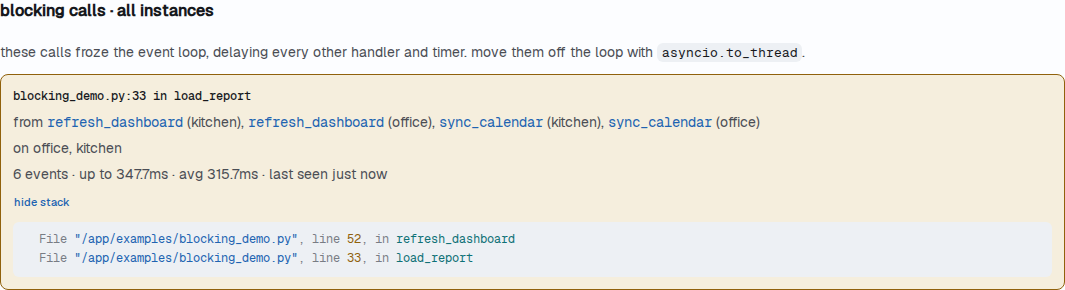
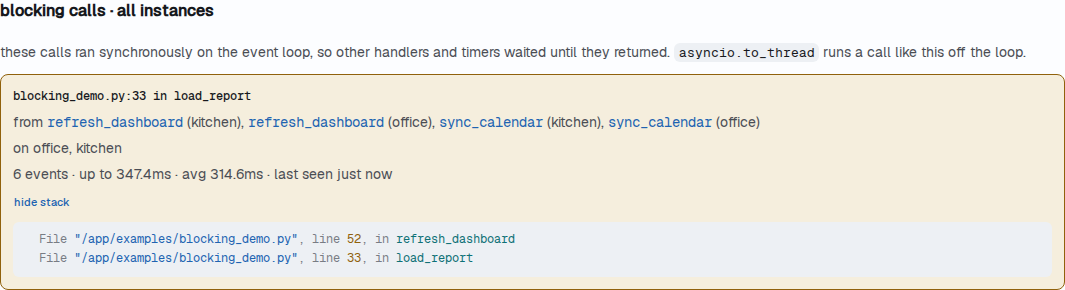
fix(web): describe blocking calls neutrally and split stall definitions
Claude-Session: https://claude.ai/code/session_01AKvP9Sz9itzJqpeXZXN78i

Changed region(s): [[0.062, 0.1552, 0.9606, 0.2172], [0.1239, 0.5586, 0.3718, 0.6207]]

diff --git a/frontend/src/components/diagnostics/loop-stalls-panel.tsx b/frontend/src/components/diagnostics/loop-stalls-panel.tsx
@@ -47,10 +47,16 @@ export function LoopStallsPanel({ data }: Props) {
       <p className={META_CLASS} data-testid="diag-loop-stalls-summary">
         {summaryText(data)}
       </p>
-      <p className={META_CLASS}>
-        none of these are credited to an app. <strong>displaced</strong> — an app was running, but a different task held
-        the loop, so blame was withheld. <strong>framework</strong> — no app execution was responsible.
-      </p>
+      <div className={`${META_CLASS} flex flex-col gap-1`}>
+        <p>none of these are credited to an app.</p>
+        <p>
+          <strong>displaced</strong> — an app was running, but a different task held the loop, so the stall isn&apos;t
+          attributed to it.
+        </p>
+        <p>
+          <strong>framework</strong> — no app execution was responsible.
+        </p>
+      </div>
       <ul className="flex list-none flex-col gap-3 p-0" aria-label="Recent loop stalls">
         {data.recent.map((stall, i) => (
           <StallRow key={`${stall.detected_ts}-${i}`} stall={stall} index={i} />

diff --git a/frontend/src/components/app-detail/blocking-findings.tsx b/frontend/src/components/app-detail/blocking-findings.tsx
@@ -141,8 +141,8 @@ export function BlockingFindingsSection({ appKey, scope }: Props) {
     <section className={OVERVIEW_SECTION_CLASS} data-testid="overview-blocking-findings">
       <h3 className={SECTION_LABEL_CLASS}>blocking calls{scope.kind === "app" && " · all instances"}</h3>
       <p className={META_CLASS}>
-        these calls froze the event loop, delaying every other handler and timer. move them off the loop with{" "}
-        <code className="font-mono">asyncio.to_thread</code>.
+        these calls ran synchronously on the event loop, so other handlers and timers waited until they returned.{" "}
+        <code className="font-mono">asyncio.to_thread</code> runs a call like this off the loop.
       </p>
       {findings.map((finding, i) => (
         <FindingEntry
